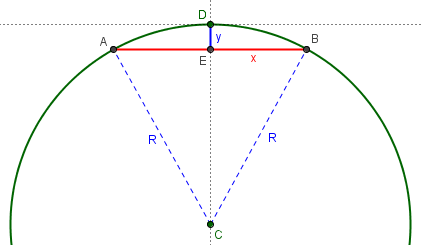
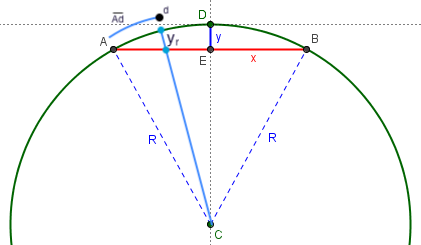
Updating readme

diff --git a/README.md b/README.md
@@ -4,25 +4,22 @@ This project is a proof of concept for calculating whether or not there is line 
 
 ## Considering Earth's curvature
 
-At large distances, the curvature of the earth may interfere with an otherwise direct line of sight.
+At large distances, the curvature of the earth may interfere with an otherwise direct line of sight. The height offset of $d$, along the _arc_ $\overset{\huge\frown}{AB}$ is represented by $y_r$ in this diagram:
 
 <p align="center">
 <img src="./images/earth-diagram.png" />
 </p>
 
-To find the vertical bulge of the earch between 2 points, we can use the [following formula](https://www.themathdoctors.org/how-much-does-the-earth-curve/):
+The formula for this height $y_r$ as a function of the distance $d$ is:
 
-$$ -y = R + \frac{\sqrt{4R^2 - L^2}}{2} $$
+$$
 
-Where $L$ is the distance between $A$ and $B$. If $L$ is small compared to $R$, the following approximation works as well:
+y_r = R \left( 1 - \dfrac{ \cos \left( \dfrac{\theta*{AB}}{2} \right) }{ \cos \left( \dfrac{\theta\_{AB}}{2} - \theta \right) } \right)
 
-$$ y = -L^2 / 8R $$
 
-This math assumes you know the direct distance $L$. But in the case of measuring distances on earth, we often don't know the direct distance (the _chord_), but rather the distance along the curvature of the earth's surface, which is arc $\overline{AB}$. The chord length can be derived from the arc length with [this formula](https://www.vcalc.com/wiki/chord-length-from-arc-length-and-radius):
+$$
 
-$$ L = 2R \cdot sin(\frac{\overline{AB}}{2R}) $$
-
-In order to find the height of the earth's bulge at every pixel along a line between 2 points, we would have to call the `Math.sin` function as many times as there are pixels. Considering `Math.sin` is very [computationally demanding](https://stackoverflow.com/questions/2479517/is-trigonometry-computationally-expensive), it may be useful in the code to use a [sin approximation function](https://datagenetics.com/blog/july12019/index.html) instead.
+Where $\theta = \frac{d}{R}$. Ths discussion that spawned this formula can be found [here](https://math.stackexchange.com/questions/4653429/height-of-circle-bulge-along-given-arc/4653616). In scenarios where earth's curvature is calculated, every pixel at a distance $d$ the line between two points includes the term $y_r(d)$.
 
 ---
 
